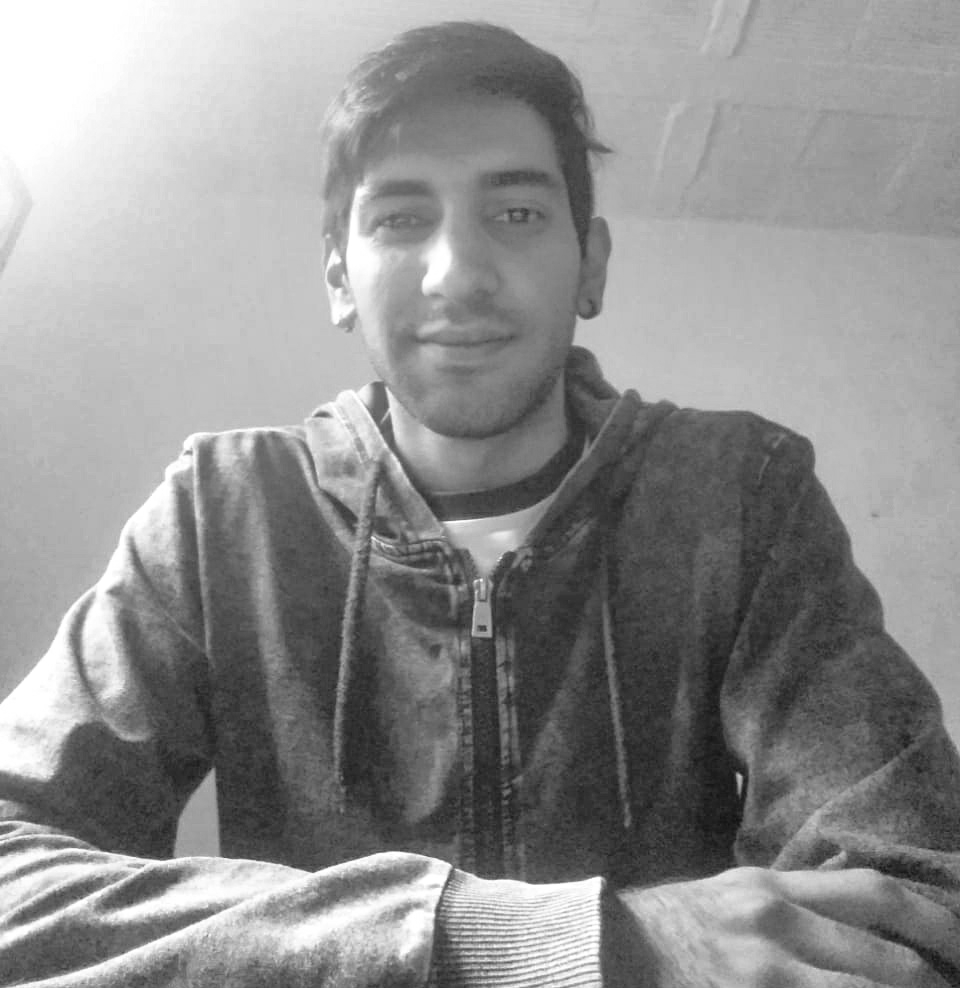
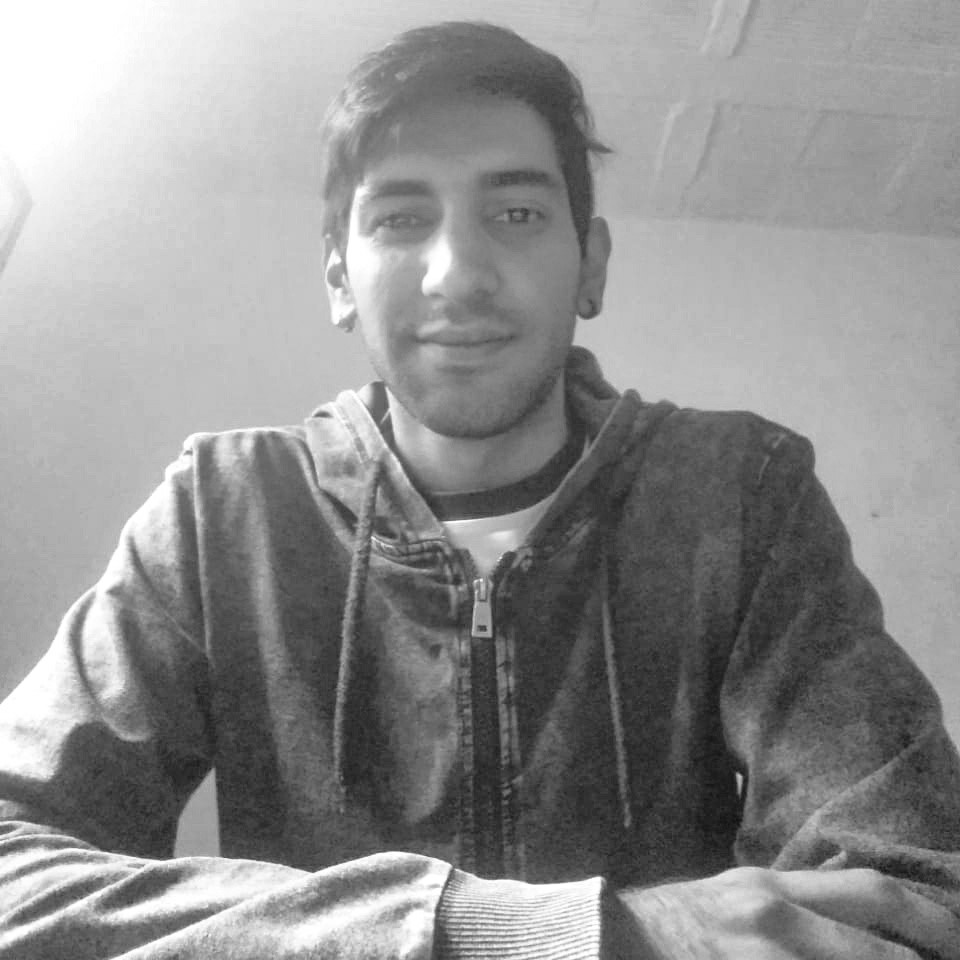
Agregamos ultimas fotos y corregimos proporciones a 1:1

diff --git a/PoloSitioWeb/PoloSitioWeb/Helpers/TeamHelper.cs b/PoloSitioWeb/PoloSitioWeb/Helpers/TeamHelper.cs
@@ -61,6 +61,14 @@ namespace PoloSitioWeb.Helpers
             });
             teamMembers.Add(new TeamMember()
             {
+                Name = "Eugenio Serrano",
+                Role = "Software Architect",
+                ImageUrl = "/assets/img/fotos/Incluit/eugeserrano.jpeg",
+                ImageDescription = "Member",
+                Enterprise = incluit
+            });
+            teamMembers.Add(new TeamMember()
+            {
                 Name = "Ezequiel Etchecoin",
                 Role = "Team Leader - Dev",
                 ImageUrl = "/assets/img/fotos/Incluit/ezeetchecoin.jpeg",
@@ -80,6 +88,14 @@ namespace PoloSitioWeb.Helpers
                 Name = "Federico Sosa",
                 Role = "Developer",
                 ImageUrl = "/assets/img/fotos/Incluit/fedesosa.jpeg",
+                ImageDescription = "Member",
+                Enterprise = incluit
+            });
+            teamMembers.Add(new TeamMember()
+            {
+                Name = "Gabriel Funes",
+                Role = "Developer",
+                ImageUrl = "/assets/img/fotos/Incluit/gabifunes.jpeg",
                 ImageDescription = "Member",
                 Enterprise = incluit
             });
@@ -173,7 +189,6 @@ namespace PoloSitioWeb.Helpers
             });
             #endregion
 
-
             #region Mantis
             teamMembers.Add(new TeamMember()
             {
@@ -204,9 +219,25 @@ namespace PoloSitioWeb.Helpers
             });
             teamMembers.Add(new TeamMember()
             {
+                Name = "Luciano Rodriguez",
+                Role = "Operations",
+                ImageUrl = "/assets/img/fotos/Verne/lucianorodriguez.jpeg",
+                ImageDescription = "Member",
+                Enterprise = verne
+            });
+            teamMembers.Add(new TeamMember()
+            {
                 Name = "Mariana Rodriguez",
                 Role = "Business Intelligence",
                 ImageUrl = "/assets/img/fotos/Verne/marianarodriguez.jpeg",
+                ImageDescription = "Member",
+                Enterprise = verne
+            });
+            teamMembers.Add(new TeamMember()
+            {
+                Name = "Pablo Nesteruc",
+                Role = "Operations",
+                ImageUrl = "/assets/img/fotos/Verne/pablonesteruc.jpeg",
                 ImageDescription = "Member",
                 Enterprise = verne
             });
